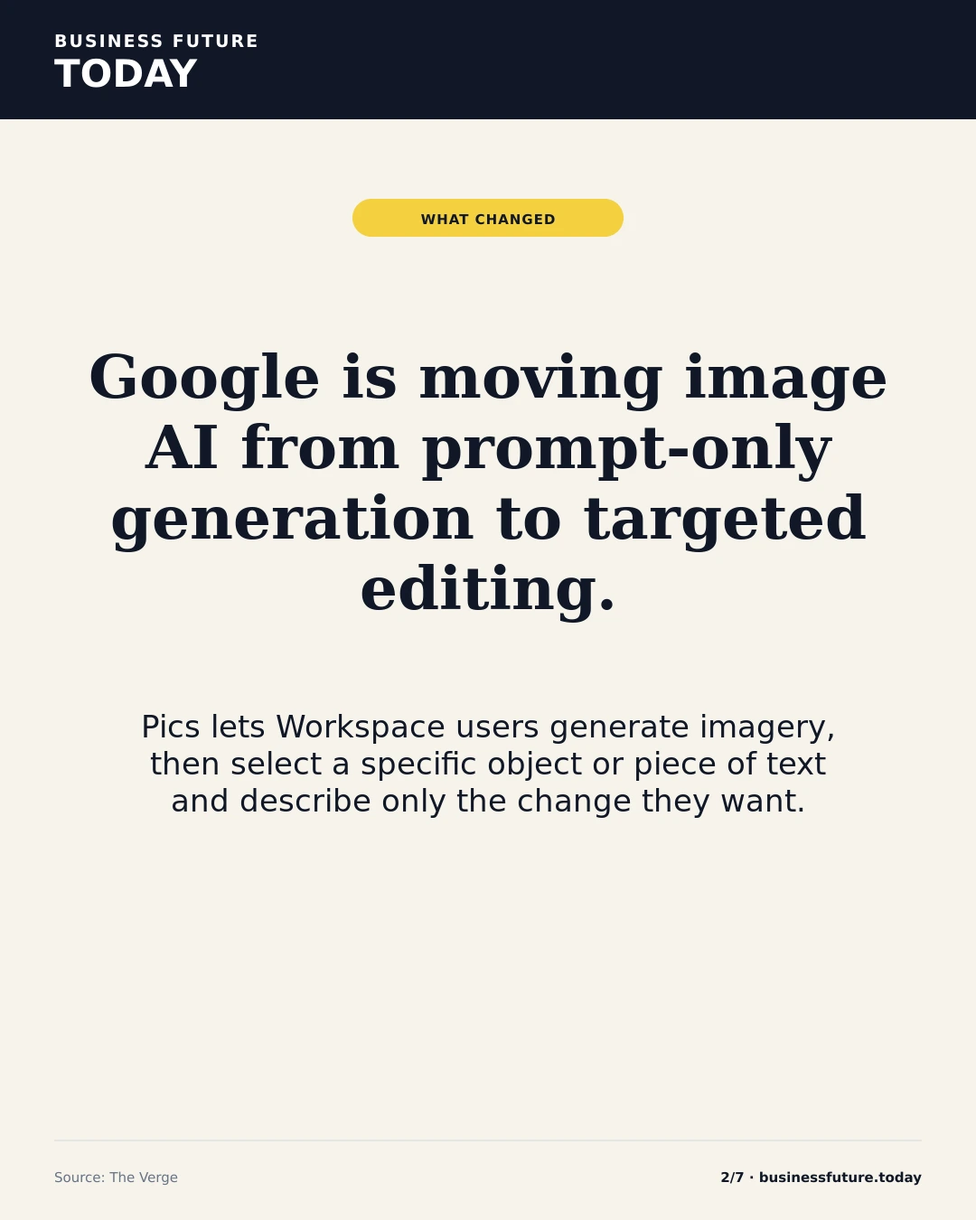
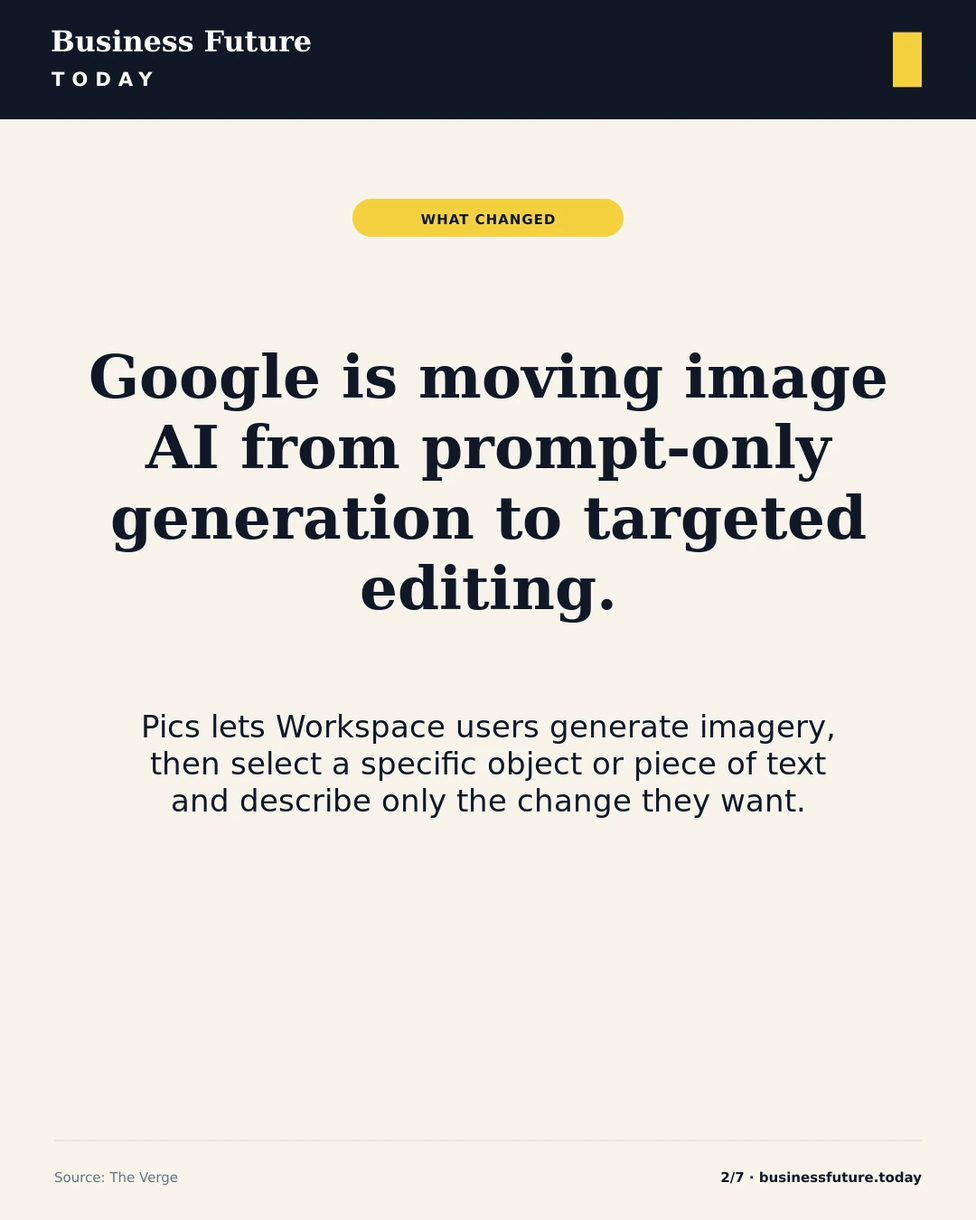
Wire Edition brand into publication and social pipeline

Changed region(s): [[0.0306, 0.0, 0.3361, 0.0933], [0.9167, 0.0, 0.9472, 0.0933]]

diff --git a/app/globals.css b/app/globals.css
@@ -239,7 +239,7 @@ h1, h2, h3 { font-weight: 600; letter-spacing: -.06em; }
 }
 
 /* Publication Template Engine */
-.publication{--pub-bg:#fffdf8;--pub-surface:#f4f0e7;--pub-ink:#171714;--pub-muted:#6d6962;--pub-line:rgba(23,23,20,.18);--pub-accent:#d8ff43;--pub-section-gap:76px;min-height:100vh;background:var(--pub-bg);color:var(--pub-ink);font-family:Arial,Helvetica,sans-serif}.publication a{color:inherit}.pub-shell{width:min(1180px,calc(100% - 48px));margin-left:auto;margin-right:auto}.pub-utility{border-bottom:1px solid var(--pub-line);color:var(--pub-muted);font-size:10px;letter-spacing:.06em;text-transform:uppercase}.pub-utility__inner{min-height:32px;display:flex;align-items:center;justify-content:space-between;gap:24px}.pub-utility__inner>div{display:flex;gap:20px}.pub-header{min-height:92px;display:grid;grid-template-columns:220px 1fr 260px;align-items:center;gap:28px;border-bottom:1px solid var(--pub-line)}.pub-brand{display:inline-flex;width:max-content;flex-direction:column;line-height:.88;letter-spacing:-.045em}.pub-brand span{font-size:12px;font-weight:600}.pub-brand strong{font-size:28px;font-weight:800;letter-spacing:-.065em}.pub-nav{display:flex;justify-content:center;gap:26px;font-size:12px;font-weight:600}.pub-nav a{padding:10px 0}.pub-nav a:hover{opacity:.55}.pub-header__actions{justify-self:end}.pub-template-bar{min-height:42px;display:flex;align-items:center;justify-content:space-between;gap:20px;border-bottom:1px solid var(--pub-line);color:var(--pub-muted);font-size:10px}.pub-template-switch{display:inline-flex;align-items:center;gap:4px}.pub-template-switch>span{margin-right:6px;text-transform:uppercase;letter-spacing:.09em}.pub-template-switch a{padding:5px 8px;border:1px solid transparent;border-radius:99px}.pub-template-switch a.is-active{border-color:var(--pub-ink);color:var(--pub-ink)}.pub-kicker{margin:0 0 9px;color:var(--pub-muted);font-size:10px;font-weight:800;letter-spacing:.1em;text-transform:uppercase}.pub-meta{display:flex;flex-wrap:wrap;gap:12px;color:var(--pub-muted);font-size:9px;font-weight:600;letter-spacing:.07em;text-transform:uppercase}.pub-image{display:block;width:100%;height:100%;object-fit:cover;background:#ddd8ce}.pub-image--fallback{min-height:220px;display:grid;place-items:center;background:var(--pub-ink);color:var(--pub-bg);font-size:52px;font-weight:800;letter-spacing:-.08em}.pub-ad-band{padding-top:24px;padding-bottom:22px}.pub-section{padding-top:var(--pub-section-gap);padding-bottom:var(--pub-section-gap);border-top:1px solid var(--pub-line)}.pub-section__head{margin-bottom:32px;display:flex;align-items:baseline;justify-content:space-between;gap:24px}.pub-section__head h2{margin:0;font-size:28px;line-height:1;font-weight:750;letter-spacing:-.035em}.pub-section__head>span{color:var(--pub-muted);font-size:10px;text-transform:uppercase;letter-spacing:.08em}
+.publication{--pub-bg:#F6F3EB;--pub-surface:#EEE9DD;--pub-ink:#111827;--pub-muted:#677386;--pub-line:rgba(17,24,39,.18);--pub-accent:#F4D03F;--pub-section-gap:76px;min-height:100vh;background:var(--pub-bg);color:var(--pub-ink);font-family:Arial,Helvetica,sans-serif}.publication a{color:inherit}.pub-shell{width:min(1180px,calc(100% - 48px));margin-left:auto;margin-right:auto}.pub-utility{border-bottom:1px solid var(--pub-line);color:var(--pub-muted);font-size:10px;letter-spacing:.06em;text-transform:uppercase}.pub-utility__inner{min-height:32px;display:flex;align-items:center;justify-content:space-between;gap:24px}.pub-utility__inner>div{display:flex;gap:20px}.pub-header{min-height:92px;display:grid;grid-template-columns:220px 1fr 260px;align-items:center;gap:28px;border-bottom:1px solid var(--pub-line)}.pub-brand{display:inline-flex;width:max-content;flex-direction:column;line-height:.88;letter-spacing:-.045em}.pub-brand span{font-size:12px;font-weight:600}.pub-brand strong{font-size:28px;font-weight:800;letter-spacing:-.065em}.pub-nav{display:flex;justify-content:center;gap:26px;font-size:12px;font-weight:600}.pub-nav a{padding:10px 0}.pub-nav a:hover{opacity:.55}.pub-header__actions{justify-self:end}.pub-template-bar{min-height:42px;display:flex;align-items:center;justify-content:space-between;gap:20px;border-bottom:1px solid var(--pub-line);color:var(--pub-muted);font-size:10px}.pub-template-switch{display:inline-flex;align-items:center;gap:4px}.pub-template-switch>span{margin-right:6px;text-transform:uppercase;letter-spacing:.09em}.pub-template-switch a{padding:5px 8px;border:1px solid transparent;border-radius:99px}.pub-template-switch a.is-active{border-color:var(--pub-ink);color:var(--pub-ink)}.pub-kicker{margin:0 0 9px;color:var(--pub-muted);font-size:10px;font-weight:800;letter-spacing:.1em;text-transform:uppercase}.pub-meta{display:flex;flex-wrap:wrap;gap:12px;color:var(--pub-muted);font-size:9px;font-weight:600;letter-spacing:.07em;text-transform:uppercase}.pub-image{display:block;width:100%;height:100%;object-fit:cover;background:#ddd8ce}.pub-image--fallback{min-height:220px;display:grid;place-items:center;background:var(--pub-ink);color:var(--pub-bg);font-size:52px;font-weight:800;letter-spacing:-.08em}.pub-ad-band{padding-top:24px;padding-bottom:22px}.pub-section{padding-top:var(--pub-section-gap);padding-bottom:var(--pub-section-gap);border-top:1px solid var(--pub-line)}.pub-section__head{margin-bottom:32px;display:flex;align-items:baseline;justify-content:space-between;gap:24px}.pub-section__head h2{margin:0;font-size:28px;line-height:1;font-weight:750;letter-spacing:-.035em}.pub-section__head>span{color:var(--pub-muted);font-size:10px;text-transform:uppercase;letter-spacing:.08em}
 .publication--newsroom{--pub-bg:#fffefb;--pub-surface:#f5f3ed;--pub-ink:#171717;--pub-muted:#716e68;--pub-line:rgba(23,23,23,.17);--pub-section-gap:78px}.publication--newsroom .pub-lead{padding:48px 0 66px;display:grid;grid-template-columns:minmax(0,1.72fr) minmax(280px,.72fr);gap:42px}.publication--newsroom .pub-lead__primary{min-width:0;padding-right:42px;border-right:1px solid var(--pub-line)}.publication--newsroom .pub-lead__media{display:block;aspect-ratio:16/9;overflow:hidden;margin-bottom:26px}.publication--newsroom .pub-lead__copy{max-width:820px}.publication--newsroom .pub-lead h1{margin:0 0 18px;font-size:clamp(42px,4.6vw,66px);line-height:.98;font-weight:720;letter-spacing:-.045em}.publication--newsroom .pub-dek{max-width:720px;margin:0 0 20px;color:#4d4b47;font-family:Georgia,"Times New Roman",serif;font-size:clamp(18px,1.7vw,23px);line-height:1.38}.publication--newsroom .pub-lead__secondary{display:flex;flex-direction:column}.publication--newsroom .pub-secondary{padding:0 0 20px;margin-bottom:20px;border-bottom:1px solid var(--pub-line);display:grid;grid-template-columns:112px 1fr;gap:16px}.publication--newsroom .pub-secondary:last-child{margin-bottom:0;border-bottom:0}.publication--newsroom .pub-secondary__media{aspect-ratio:1.15;overflow:hidden}.publication--newsroom .pub-secondary h2{margin:0 0 11px;font-size:19px;line-height:1.08;font-weight:700;letter-spacing:-.025em}.publication--newsroom .pub-latest{display:grid;grid-template-columns:1fr 1fr;column-gap:42px;border-top:1px solid var(--pub-line)}.publication--newsroom .pub-latest__item{min-height:155px;padding:24px 0;border-bottom:1px solid var(--pub-line);display:grid;grid-template-columns:34px 1fr 126px;gap:16px;align-items:start}.publication--newsroom .pub-latest__number{padding-top:3px;color:#aaa59c;font-size:10px;font-weight:700}.publication--newsroom .pub-latest h3{margin:0 0 13px;font-size:21px;line-height:1.08;font-weight:690;letter-spacing:-.025em}.publication--newsroom .pub-latest__media{aspect-ratio:1.2;overflow:hidden}.publication--newsroom .pub-category__grid{display:grid;grid-template-columns:minmax(0,1.1fr) minmax(360px,.9fr);gap:52px}.publication--newsroom .pub-category__lead{padding-right:8px}.publication--newsroom .pub-category__media{display:block;aspect-ratio:16/9;overflow:hidden;margin-bottom:22px}.publication--newsroom .pub-category__lead h3{margin:0 0 14px;max-width:680px;font-size:clamp(30px,3.4vw,46px);line-height:1;font-weight:700;letter-spacing:-.04em}.publication--newsroom .pub-category__lead>p:not(.pub-kicker){max-width:650px;margin:0 0 18px;color:#56534e;font-family:Georgia,"Times New Roman",serif;font-size:17px;line-height:1.45}.publication--newsroom .pub-category__list{border-top:1px solid var(--pub-line)}.publication--newsroom .pub-category__list article{padding:20px 0;border-bottom:1px solid var(--pub-line);display:grid;grid-template-columns:128px 1fr;gap:18px}.publication--newsroom .pub-category__thumb{aspect-ratio:1.3;overflow:hidden}.publication--newsroom .pub-category__list h4{margin:0 0 12px;font-size:19px;line-height:1.1;font-weight:690;letter-spacing:-.02em}.publication--newsroom .pub-deep-grid{display:grid;grid-template-columns:repeat(3,1fr);gap:34px 28px}.publication--newsroom .pub-deep-grid article>a:first-child{display:block;aspect-ratio:3/2;overflow:hidden;margin-bottom:17px}.publication--newsroom .pub-deep-grid h3{margin:0 0 14px;font-size:22px;line-height:1.08;font-weight:690;letter-spacing:-.025em}.publication--newsroom .pub-archive{border-top:1px solid var(--pub-line)}.publication--newsroom .pub-archive article{min-height:172px;padding:26px 0;border-bottom:1px solid var(--pub-line);display:grid;grid-template-columns:1fr 220px;gap:50px}.publication--newsroom .pub-archive article>a:last-child{aspect-ratio:16/9;overflow:hidden}.publication--newsroom .pub-archive h3{margin:0 0 9px;max-width:760px;font-size:24px;line-height:1.06;font-weight:690;letter-spacing:-.025em}.publication--newsroom .pub-archive p:not(.pub-kicker){max-width:720px;margin:0 0 13px;color:#5e5a54;font-family:Georgia,"Times New Roman",serif;font-size:15px;line-height:1.4}
 .publication--signal{--pub-bg:#f4f0e7;--pub-surface:#ebe5d8;--pub-ink:#11110f;--pub-muted:#77736b;--pub-line:rgba(17,17,15,.16);--pub-accent:#d8ff43;--pub-section-gap:64px}.publication--signal .pub-signal-lead{padding:54px 0 66px;display:grid;grid-template-columns:1.08fr .92fr;gap:40px;border-bottom:1px solid var(--pub-line)}.publication--signal .pub-signal-lead__copy{padding-right:4vw;align-self:center}.publication--signal .pub-signal-lead h1{margin:0;font-size:clamp(54px,6.8vw,96px);line-height:.88;font-weight:650;letter-spacing:-.062em}.publication--signal .pub-signal-lead .pub-dek{max-width:650px;margin:28px 0 22px;font-size:22px;line-height:1.24;letter-spacing:-.025em}.publication--signal .pub-signal-lead__media{min-height:540px;overflow:hidden}.pub-text-link{display:inline-block;margin-top:24px;padding-bottom:3px;border-bottom:1px solid currentColor;font-size:12px;font-weight:700}.pub-manifesto{padding-top:72px;padding-bottom:72px;display:grid;grid-template-columns:.25fr 1.05fr .7fr;gap:42px;border-bottom:1px solid var(--pub-line)}.pub-manifesto h2{margin:0;font-size:clamp(38px,4.5vw,64px);line-height:.97;font-weight:620;letter-spacing:-.05em}.pub-manifesto>p:last-child{margin:4px 0 0;font-size:17px;line-height:1.45}.publication--signal .pub-signal-grid{display:grid;grid-template-columns:repeat(3,1fr);gap:0;border-top:1px solid var(--pub-line);border-left:1px solid var(--pub-line)}.publication--signal .pub-signal-grid article{min-height:390px;padding:24px;border-right:1px solid var(--pub-line);border-bottom:1px solid var(--pub-line)}.publication--signal .pub-signal-grid article.is-wide{grid-column:span 2}.publication--signal .pub-signal-grid article>a:first-child{display:block;aspect-ratio:16/9;overflow:hidden;margin:-24px -24px 22px}.publication--signal .pub-signal-grid h3{margin:0 0 15px;font-size:clamp(27px,2.6vw,42px);line-height:.98;font-weight:630;letter-spacing:-.04em}.publication--signal .pub-signal-grid p:not(.pub-kicker){color:#514e48;font-size:15px;line-height:1.42}
 .pub-newsletter{margin-top:var(--pub-section-gap);background:var(--pub-ink);color:var(--pub-bg)}.publication--signal .pub-newsletter{background:var(--pub-accent);color:var(--pub-ink)}.pub-newsletter__inner{padding-top:58px;padding-bottom:58px;display:grid;grid-template-columns:1.05fr .95fr;gap:80px}.pub-newsletter h2{margin:0;max-width:620px;font-size:clamp(38px,4.5vw,60px);line-height:.97;font-weight:650;letter-spacing:-.045em}.pub-newsletter__inner>div:last-child>p{max-width:540px;margin:0 0 22px;font-family:Georgia,"Times New Roman",serif;font-size:17px;line-height:1.45}.pub-newsletter .subscribe input{background:rgba(255,255,255,.95);color:#111;border-color:rgba(255,255,255,.75)}.pub-newsletter .subscribe button{background:var(--pub-bg);color:var(--pub-ink);border-color:var(--pub-bg)}.publication--signal .pub-newsletter .subscribe input{border-color:var(--pub-ink)}.publication--signal .pub-newsletter .subscribe button{background:var(--pub-ink);color:#fff;border-color:var(--pub-ink)}.pub-newsletter small{display:block;margin-top:10px;opacity:.65}.pub-footer{border-top:1px solid var(--pub-line);background:var(--pub-bg)}.pub-footer__grid{min-height:260px;padding-top:52px;padding-bottom:46px;display:grid;grid-template-columns:1.6fr .7fr .7fr .8fr;gap:48px}.pub-footer__grid h4{margin:0 0 16px;font-size:11px;text-transform:uppercase;letter-spacing:.08em}.pub-footer__grid>div:not(:first-child){display:flex;flex-direction:column;gap:10px;color:var(--pub-muted);font-size:12px}.pub-footer__grid>div:first-child p{max-width:310px;color:var(--pub-muted);font-family:Georgia,"Times New Roman",serif;font-size:15px;line-height:1.4}.pub-brand--footer{margin-bottom:18px}
@@ -259,3 +259,5 @@ h1, h2, h3 { font-weight: 600; letter-spacing: -.06em; }
 /* Brand review system */
 .brand-review{min-height:100vh;background:#edf0f3;color:#111827;padding:48px;font-family:Arial,Helvetica,sans-serif}.brand-review__hero{max-width:1500px;margin:0 auto 36px;display:flex;justify-content:space-between;gap:60px;align-items:flex-end}.brand-review__eyebrow{margin:0;color:#6b7280;font-size:10px;font-weight:800;letter-spacing:.12em}.brand-review__hero h1{margin:8px 0 8px;font-size:clamp(58px,8vw,112px);line-height:.84;letter-spacing:-.07em}.brand-review__hero>div:first-child>p:last-child{margin:0;font:20px/1.45 Georgia,serif;color:#5b6472}.brand-review__status{width:300px;background:#111827;color:#fff;padding:24px;display:grid;gap:7px}.brand-review__status span{font-size:9px;letter-spacing:.12em;color:#aeb7c4}.brand-review__status strong{font-size:24px}.brand-review__status small{color:#aeb7c4;line-height:1.4}.brand-review__tokens{max-width:1500px;margin:0 auto 56px;display:grid;grid-template-columns:repeat(4,1fr);gap:12px}.brand-review__tokens>div{background:#fff;border:1px solid #d7dce3;padding:13px;display:grid;grid-template-columns:auto 1fr auto;align-items:center;gap:12px}.brand-review__tokens span{font-size:11px;font-weight:800}.brand-review__tokens i{display:block;height:26px;border:1px solid #d8dde4}.brand-review__tokens code{font-size:10px;color:#6b7280}.brand-concept{max-width:1500px;margin:0 auto 70px;padding-top:30px;border-top:3px solid #111827}.brand-concept__head{display:flex;justify-content:space-between;gap:40px;align-items:flex-start;margin-bottom:24px}.brand-concept__head>div{display:flex;gap:22px}.brand-concept__head>div>span{font-size:11px;font-weight:800;color:#7a8492;padding-top:7px}.brand-concept__head h2{font-size:44px;line-height:1;margin:0 0 8px;letter-spacing:-.045em}.brand-concept__head p{max-width:620px;margin:0;color:#5c6675;font:16px/1.45 Georgia,serif}.brand-concept__head code{font-size:11px;background:#fff;border:1px solid #d7dce3;padding:8px 10px}.brand-concept__logos{display:grid;grid-template-columns:2fr .7fr;gap:20px;margin-bottom:20px}.brand-concept__small{display:grid;grid-template-columns:.75fr .55fr .28fr 1.55fr;gap:20px;margin-bottom:20px;align-items:start}.brand-concept__banners{display:grid;grid-template-columns:1fr 1fr;gap:20px}.brand-asset{background:#fff;border:1px solid #d7dce3;padding:14px;box-shadow:0 12px 38px rgba(15,23,42,.055)}.brand-asset__label{display:flex;justify-content:space-between;gap:14px;align-items:baseline;margin-bottom:11px}.brand-asset__label strong{font-size:11px;text-transform:uppercase;letter-spacing:.06em}.brand-asset__label span{font-size:10px;color:#7a8492}.brand-asset img{display:block;width:100%;height:auto;background:#f6f3eb}.brand-asset--square img{aspect-ratio:1;object-fit:cover}.brand-asset--tiny img{image-rendering:auto}.brand-asset__open{display:inline-block;margin-top:10px;border-bottom:1px solid currentColor;padding-bottom:2px;font-size:10px;font-weight:800;text-transform:uppercase;letter-spacing:.06em}.brand-review__matrix{max-width:1500px;margin:0 auto;background:#111827;color:#fff;padding:42px}.brand-review__matrix h2{margin:7px 0 28px;font-size:46px;letter-spacing:-.05em}.brand-review__matrixgrid{display:grid;grid-template-columns:repeat(4,1fr);gap:1px;background:#394150}.brand-review__matrixgrid>div{background:#111827;padding:20px;display:grid;gap:7px}.brand-review__matrixgrid strong{font-size:12px}.brand-review__matrixgrid span{font:14px/1.4 Georgia,serif;color:#b8c1cd}@media(max-width:1050px){.brand-review{padding:30px 18px}.brand-review__hero{display:block}.brand-review__status{margin-top:24px;width:100%}.brand-review__tokens{grid-template-columns:1fr 1fr}.brand-concept__logos,.brand-concept__banners{grid-template-columns:1fr}.brand-concept__small{grid-template-columns:1fr 1fr}.brand-review__matrixgrid{grid-template-columns:1fr 1fr}}@media(max-width:620px){.brand-review__tokens,.brand-concept__small,.brand-review__matrixgrid{grid-template-columns:1fr}.brand-concept__head{display:block}.brand-concept__head code{display:inline-block;margin-top:14px}.brand-review__matrix{padding:26px 18px}.brand-review__matrix h2{font-size:36px}}
 .brand-review--single .brand-review__hero h1{text-transform:none}.brand-review__guidelines,.brand-library,.brand-review__handoff{max-width:1500px;margin:0 auto 64px}.brand-review__guidelines{background:#fff;border:1px solid #d7dce3;padding:34px}.brand-review__guidelines h2,.brand-library h2,.brand-review__handoff h2{margin:6px 0 10px;font-size:42px;letter-spacing:-.045em}.brand-review__rulegrid{display:grid;grid-template-columns:repeat(4,1fr);gap:1px;background:#d7dce3;margin-top:26px}.brand-review__rulegrid>div{background:#fff;padding:20px;display:grid;gap:8px}.brand-review__rulegrid strong{font-size:11px;text-transform:uppercase;letter-spacing:.07em}.brand-review__rulegrid span{color:#596474;font:14px/1.45 Georgia,serif}.brand-review__dont{display:flex;gap:18px;flex-wrap:wrap;margin-top:20px;padding-top:20px;border-top:1px solid #e0e4e9}.brand-review__dont strong{font-size:11px;text-transform:uppercase;letter-spacing:.07em}.brand-review__dont span{font-size:12px;color:#667180}.brand-library{padding-top:28px;border-top:3px solid #111827}.brand-library>header{display:flex;justify-content:space-between;gap:30px;align-items:flex-end;margin-bottom:22px}.brand-library>header>div>p:last-child{max-width:720px;margin:0;color:#5d6878;font:15px/1.45 Georgia,serif}.brand-library>header>span{font-size:11px;color:#727d8c;text-transform:uppercase;letter-spacing:.08em}.brand-library__grid{display:grid;grid-template-columns:repeat(2,minmax(0,1fr));gap:20px}.brand-library__grid--icons,.brand-library__grid--profiles{grid-template-columns:repeat(4,minmax(0,1fr))}.brand-library__grid--social-system{grid-template-columns:repeat(2,minmax(0,1fr))}.brand-asset__stage{min-height:160px;display:grid;place-items:center;background:#f6f3eb;border:1px solid #ece9e1;overflow:hidden}.brand-asset--dark .brand-asset__stage{background:#111827}.brand-asset__stage img{max-width:100%;max-height:100%;object-fit:contain}.brand-library__grid--master .brand-asset--square .brand-asset__stage,.brand-library__grid--icons .brand-asset__stage,.brand-library__grid--profiles .brand-asset__stage{aspect-ratio:1}.brand-library__grid--icons .brand-asset__stage img{width:74%;height:74%;object-fit:contain}.brand-review__handoff{background:#111827;color:#fff;padding:38px}.brand-review__handoff .brand-review__eyebrow{color:#98a3b2}.brand-review__handoff>div{display:grid;grid-template-columns:repeat(4,1fr);gap:1px;background:#394150;margin-top:24px}.brand-review__handoff span{background:#111827;padding:20px;display:grid;gap:7px;color:#b8c1cd;font:13px/1.4 Georgia,serif}.brand-review__handoff strong{color:#fff;font:800 10px Arial;text-transform:uppercase;letter-spacing:.07em}@media(max-width:1100px){.brand-review__rulegrid,.brand-review__handoff>div{grid-template-columns:1fr 1fr}.brand-library__grid--icons,.brand-library__grid--profiles{grid-template-columns:repeat(2,1fr)}}@media(max-width:680px){.brand-review__rulegrid,.brand-review__handoff>div,.brand-library__grid,.brand-library__grid--icons,.brand-library__grid--profiles,.brand-library__grid--social-system{grid-template-columns:1fr}.brand-library>header{display:block}.brand-library>header>span{display:inline-block;margin-top:8px}.brand-review__guidelines{padding:24px 18px}}
+/* Canonical Edition brand */
+.pub-brand{display:inline-flex;align-items:center;width:210px;max-width:100%;line-height:normal;letter-spacing:normal}.pub-brand img{display:block;width:100%;height:auto;object-fit:contain}.pub-brand--footer{width:230px}.pub-brand--footer img{width:100%}@media(max-width:720px){.pub-brand{width:190px}}

diff --git a/components/social/social-review.tsx b/components/social/social-review.tsx
@@ -1,5 +1,5 @@
 import type {Story} from '@/lib/content';
 const A='/social-review-assets';
-type CarouselSlide={type:string;label:string;headline:string;body?:string;bullets?:string[];file:string};type Manifest={caption:string;hashtags?:string[];carousel:{ratio:string;slides:CarouselSlide[]}};
-export function SocialReview({story,manifest}:{story:Story;manifest:Manifest}){const base=`${A}/${story.slug}`;return <main className="social-review"><header className="social-review__head"><div><p className="pub-kicker">SOCIAL TEMPLATE REVIEW</p><h1>{story.title}</h1><p>{story.dek}</p></div><a className="social-review__article" href={`/story/${story.slug}`}>Open article ↗</a></header><section className="social-review__grid social-review__grid--primary"><Preview title="Instagram Feed" meta="1080 × 1350 · 4:5" src={`${base}/feed-1080x1350.webp`}/><Preview title="Story" meta="1080 × 1920 · 9:16" src={`${base}/story-1080x1920.webp`} story/></section><section className="social-review__carousel"><div className="social-review__sectionhead"><div><p className="pub-kicker">INSTAGRAM CAROUSEL</p><h2>{manifest.carousel.slides.length} slides · {manifest.carousel.ratio}</h2></div><span>All slides 1080 × 1350</span></div><div className="social-review__carouselgrid">{manifest.carousel.slides.map((slide,i)=><Preview key={slide.file} title={`${String(i+1).padStart(2,'0')} · ${slide.label}`} meta={slide.type} src={`${base}/${slide.file}`}/>)}</div></section><section className="social-review__caption"><p className="pub-kicker">CAPTION</p><p>{manifest.caption}</p><div className="social-review__tags">{(manifest.hashtags||[]).map(x=>`#${x}`).join('  ')}</div></section><section className="social-review__spec"><div><strong>Template system</strong><span>BFT Editorial Social v2</span></div><div><strong>Content model</strong><span>Article → social.json → renderer</span></div><div><strong>Carousel types</strong><span>Cover · explainer · feature · impact · context · watch · CTA</span></div><div><strong>Canonical output</strong><span>WebP · channel adapter can transcode</span></div></section></main>}
+type CarouselSlide={type:string;label:string;headline:string;body?:string;bullets?:string[];file:string};type Manifest={brand?:string;caption:string;hashtags?:string[];carousel:{ratio:string;slides:CarouselSlide[]};publish?:{base:string;feed:string;story:string;carousel:string[]}};
+export function SocialReview({story,manifest}:{story:Story;manifest:Manifest}){const base=`${A}/${story.slug}`;return <main className="social-review"><header className="social-review__head"><div><p className="pub-kicker">SOCIAL TEMPLATE REVIEW</p><h1>{story.title}</h1><p>{story.dek}</p></div><a className="social-review__article" href={`/story/${story.slug}`}>Open article ↗</a></header><section className="social-review__grid social-review__grid--primary"><Preview title="Instagram Feed" meta="1080 × 1350 · 4:5" src={`${base}/feed-1080x1350.webp`}/><Preview title="Story" meta="1080 × 1920 · 9:16" src={`${base}/story-1080x1920.webp`} story/></section><section className="social-review__carousel"><div className="social-review__sectionhead"><div><p className="pub-kicker">INSTAGRAM CAROUSEL</p><h2>{manifest.carousel.slides.length} slides · {manifest.carousel.ratio}</h2></div><span>All slides 1080 × 1350</span></div><div className="social-review__carouselgrid">{manifest.carousel.slides.map((slide,i)=><Preview key={slide.file} title={`${String(i+1).padStart(2,'0')} · ${slide.label}`} meta={slide.type} src={`${base}/${slide.file}`}/>)}</div></section><section className="social-review__caption"><p className="pub-kicker">CAPTION</p><p>{manifest.caption}</p><div className="social-review__tags">{(manifest.hashtags||[]).map(x=>`#${x}`).join('  ')}</div></section>{manifest.publish&&<section className="social-review__spec"><div><strong>Publish package</strong><span>JPEG · Instagram-ready</span></div><div><strong>Feed artifact</strong><span>{manifest.publish.feed}</span></div><div><strong>Carousel artifacts</strong><span>{manifest.publish.carousel.length} JPEG slides</span></div><div><strong>Brand</strong><span>{manifest.brand||'edition'}</span></div></section>}<section className="social-review__spec"><div><strong>Template system</strong><span>BFT Editorial Social v3 · Edition</span></div><div><strong>Content model</strong><span>Article → social.json → renderer</span></div><div><strong>Carousel types</strong><span>Cover · explainer · feature · impact · context · watch · CTA</span></div><div><strong>Canonical output</strong><span>WebP review + JPEG publish package</span></div></section></main>}
 function Preview({title,meta,src,story=false}:{title:string;meta:string;src:string;story?:boolean}){return <article className={`social-preview${story?' social-preview--story':''}`}><div className="social-preview__label"><strong>{title}</strong><span>{meta}</span></div><a href={src} target="_blank" rel="noreferrer"><img src={src} alt={`${title} preview`}/></a><a className="social-preview__asset" href={src} target="_blank" rel="noreferrer">Open asset ↗</a></article>}

diff --git a/lib/newsletter-template.ts b/lib/newsletter-template.ts
@@ -1,1 +1,1 @@
-type DigestStory={title:string;dek:string;url:string;category:string;image?:string|null};export function renderDailyBriefing(params:{dateLabel:string;stories:DigestStory[];unsubscribeUrl:string}){const stories=params.stories.map((s,i)=>`<tr><td style="padding:${i?"28px 0 0":"0"};border-top:${i?"1px solid #d8dce2":"0"}"><div style="font:700 11px Arial,sans-serif;letter-spacing:.08em;color:#647083;text-transform:uppercase;margin-bottom:8px">${e(s.category)}</div><a href="${s.url}" style="font:700 24px Georgia,serif;line-height:1.1;color:#111827;text-decoration:none">${e(s.title)}</a><p style="font:16px Georgia,serif;line-height:1.5;color:#475569;margin:10px 0 0">${e(s.dek)}</p></td></tr>`).join("");const html=`<!doctype html><html><body style="margin:0;background:#f2f4f7;color:#111827"><table role="presentation" width="100%"><tr><td align="center" style="padding:28px 14px"><table role="presentation" width="100%" style="max-width:680px;background:#fff;border:1px solid #d8dce2"><tr><td style="padding:28px 34px 22px;border-bottom:4px solid #111827"><div style="font:700 12px Arial,sans-serif;letter-spacing:.13em">BUSINESS FUTURE</div><div style="font:800 34px Arial,sans-serif;letter-spacing:-.04em">TODAY</div><div style="font:12px Arial,sans-serif;color:#647083;margin-top:12px">THE DAILY BRIEFING · ${e(params.dateLabel)}</div></td></tr><tr><td style="padding:32px 34px"><table role="presentation" width="100%">${stories}</table></td></tr><tr><td style="padding:24px 34px;background:#111827;color:#cbd5e1;font:12px Arial,sans-serif;line-height:1.5">Business Future Today · Business, technology and what matters next.<br><a href="${params.unsubscribeUrl}" style="color:#fff">Unsubscribe</a> · <a href="https://businessfuture.today/privacy" style="color:#fff">Privacy</a></td></tr></table></td></tr></table></body></html>`;const text=`BUSINESS FUTURE TODAY — THE DAILY BRIEFING — ${params.dateLabel}\n\n${params.stories.map(s=>`${s.category.toUpperCase()}\n${s.title}\n${s.dek}\n${s.url}`).join("\n\n")}\n\nUnsubscribe: ${params.unsubscribeUrl}`;return{html,text}}function e(v:string){return v.replace(/[&<>"']/g,c=>({"&":"&amp;","<":"&lt;",">":"&gt;",'"':"&quot;","'":"&#39;"}[c]!))}
+type DigestStory={title:string;dek:string;url:string;category:string;image?:string|null};export function renderDailyBriefing(params:{dateLabel:string;stories:DigestStory[];unsubscribeUrl:string}){const stories=params.stories.map((s,i)=>`<tr><td style="padding:${i?"28px 0 0":"0"};border-top:${i?"1px solid #d8dce2":"0"}"><div style="font:700 11px Arial,sans-serif;letter-spacing:.08em;color:#647083;text-transform:uppercase;margin-bottom:8px">${e(s.category)}</div><a href="${s.url}" style="font:700 24px Georgia,serif;line-height:1.1;color:#111827;text-decoration:none">${e(s.title)}</a><p style="font:16px Georgia,serif;line-height:1.5;color:#475569;margin:10px 0 0">${e(s.dek)}</p></td></tr>`).join("");const html=`<!doctype html><html><body style="margin:0;background:#f2f4f7;color:#111827"><table role="presentation" width="100%"><tr><td align="center" style="padding:28px 14px"><table role="presentation" width="100%" style="max-width:680px;background:#fff;border:1px solid #d8dce2"><tr><td style="padding:0;border-bottom:4px solid #111827"><img src="https://businessfuture.today/brand/newsletter-header-1200x400.png" width="680" alt="Business Future Today" style="display:block;width:100%;height:auto;border:0"><div style="padding:14px 34px 16px;font:12px Arial,sans-serif;color:#647083">THE DAILY BRIEFING · ${e(params.dateLabel)}</div></td></tr><tr><td style="padding:32px 34px"><table role="presentation" width="100%">${stories}</table></td></tr><tr><td style="padding:24px 34px;background:#111827;color:#cbd5e1;font:12px Arial,sans-serif;line-height:1.5">Business Future Today · Business, technology and what matters next.<br><a href="${params.unsubscribeUrl}" style="color:#fff">Unsubscribe</a> · <a href="https://businessfuture.today/privacy" style="color:#fff">Privacy</a></td></tr></table></td></tr></table></body></html>`;const text=`BUSINESS FUTURE TODAY — THE DAILY BRIEFING — ${params.dateLabel}\n\n${params.stories.map(s=>`${s.category.toUpperCase()}\n${s.title}\n${s.dek}\n${s.url}`).join("\n\n")}\n\nUnsubscribe: ${params.unsubscribeUrl}`;return{html,text}}function e(v:string){return v.replace(/[&<>"']/g,c=>({"&":"&amp;","<":"&lt;",">":"&gt;",'"':"&quot;","'":"&#39;"}[c]!))}

diff --git a/components/publication/chrome.tsx b/components/publication/chrome.tsx
@@ -7,7 +7,7 @@ export function PublicationHeader({ template, pathname = "/" }: { template: Publ
   return <>
     <div className="pub-utility"><div className="pub-shell pub-utility__inner"><span>The future of business, today.</span><div><Link href="/feed.xml">RSS</Link><Link href="/newsletter">Newsletters</Link><a href="mailto:ads@businessfuture.today">Advertise</a></div></div></div>
     <header className="pub-header pub-shell">
-      <Link href={`/?template=${template.id}`} className="pub-brand" aria-label={`${publicationBrand.name} home`}><span>{publicationBrand.markTop}</span><strong>{publicationBrand.markBottom}</strong></Link>
+      <Link href={`/?template=${template.id}`} className="pub-brand" aria-label={`${publicationBrand.name} home`}><img src="/brand/site-header-wordmark-600x130.png" alt="Business Future Today" /></Link>
       <nav className="pub-nav" aria-label="Main navigation">
         {publicationBrand.primaryNav.map((category) => <a key={category} href={`/?template=${template.id}#section-${category.toLowerCase()}`}>{category}</a>)}
       </nav>
@@ -20,7 +20,7 @@ export function PublicationHeader({ template, pathname = "/" }: { template: Publ
 export function PublicationFooter({ template }: { template: PublicationTemplate }) {
   return <footer className="pub-footer">
     <div className="pub-shell pub-footer__grid">
-      <div><Link href={`/?template=${template.id}`} className="pub-brand pub-brand--footer"><span>{publicationBrand.markTop}</span><strong>{publicationBrand.markBottom}</strong></Link><p>{publicationBrand.tagline}</p></div>
+      <div><Link href={`/?template=${template.id}`} className="pub-brand pub-brand--footer"><img src="/brand/site-header-wordmark-600x130.png" alt="Business Future Today" /></Link><p>{publicationBrand.tagline}</p></div>
       <div><h4>Sections</h4>{publicationBrand.primaryNav.map((item) => <a key={item} href={`/?template=${template.id}#section-${item.toLowerCase()}`}>{item}</a>)}</div>
       <div><h4>Products</h4><Link href="/newsletter">Daily Briefing</Link><Link href="/feed.xml">RSS Feed</Link><a href="mailto:ads@businessfuture.today">Advertise</a></div>
       <div><h4>Business Future Today</h4><Link href="/about">About</Link><Link href="/editorial-standards">Editorial Standards</Link><Link href="/corrections">Corrections</Link><Link href="/affiliate-disclosure">Affiliate Disclosure</Link><Link href="/privacy">Privacy</Link><Link href="/cookies">Cookies</Link><Link href="/terms">Terms</Link><a href="mailto:hello@businessfuture.today">Contact</a><span>© {new Date().getFullYear()}</span></div>

diff --git a/app/layout.tsx b/app/layout.tsx
@@ -2,5 +2,5 @@ import type {Metadata} from "next";
 import "./globals.css";
 import {ConsentManager} from "@/components/consent-manager";
 import {AnalyticsConsent} from "@/components/analytics-consent";
-export const metadata:Metadata={metadataBase:new URL("https://businessfuture.today"),title:{default:"Business Future Today",template:"%s — Business Future Today"},description:"Business, technology and what matters next.",openGraph:{title:"Business Future Today",description:"Business, technology and what matters next.",url:"https://businessfuture.today",siteName:"Business Future Today",type:"website"},twitter:{card:"summary_large_image",title:"Business Future Today",description:"Business, technology and what matters next."}};
+export const metadata:Metadata={metadataBase:new URL("https://businessfuture.today"),title:{default:"Business Future Today",template:"%s — Business Future Today"},description:"Business, technology and what matters next.",icons:{icon:[{url:"/brand/favicon-32.png",sizes:"32x32",type:"image/png"},{url:"/brand/favicon-64.png",sizes:"64x64",type:"image/png"}],apple:"/brand/apple-touch-icon.png"},openGraph:{title:"Business Future Today",description:"Business, technology and what matters next.",url:"https://businessfuture.today",siteName:"Business Future Today",type:"website",images:[{url:"/brand/og-default-1200x630.webp",width:1200,height:630,alt:"Business Future Today"}]},twitter:{card:"summary_large_image",title:"Business Future Today",description:"Business, technology and what matters next.",images:["/brand/og-default-1200x630.webp"]}};
 export default function RootLayout({children}:Readonly<{children:React.ReactNode}>){return <html lang="en"><body>{children}<ConsentManager/><AnalyticsConsent measurementId={process.env.NEXT_PUBLIC_GA_MEASUREMENT_ID}/></body></html>}
